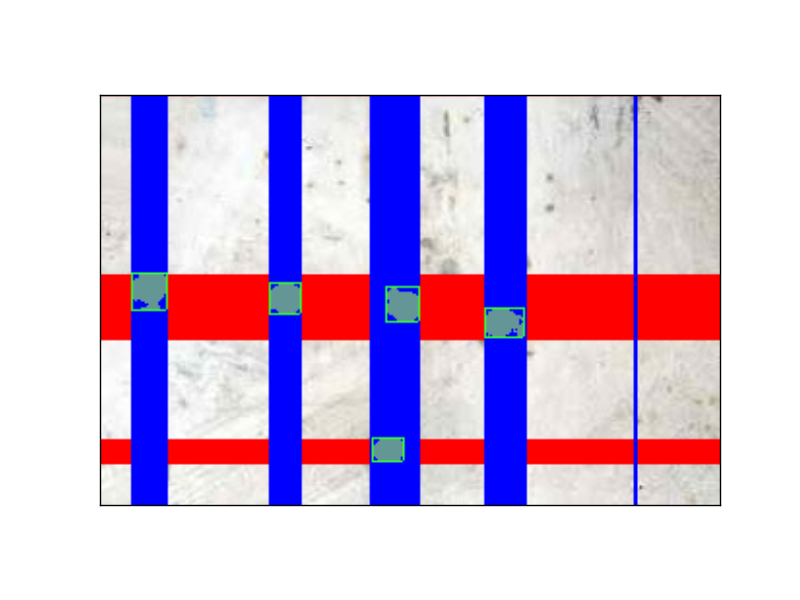
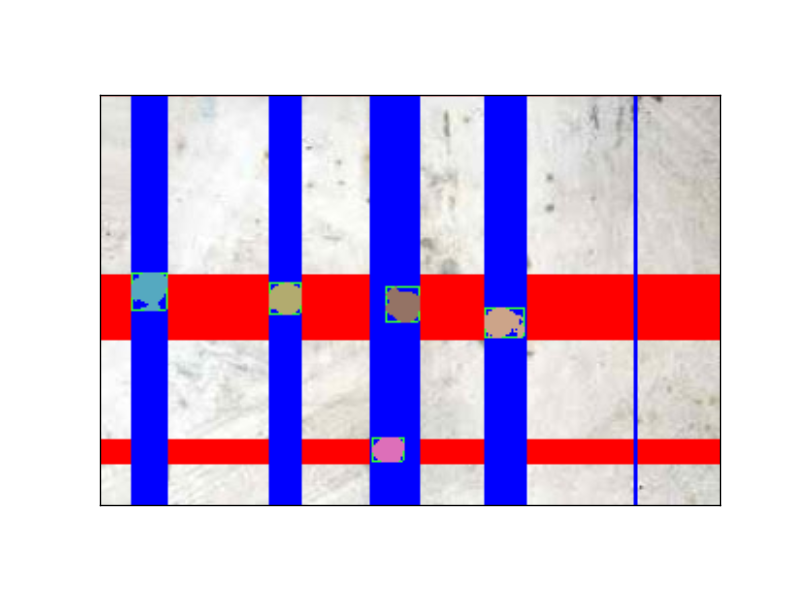
Holes

diff --git a/agujeros.py b/agujeros.py
@@ -62,6 +62,39 @@ def promedio(histo):
         if histo[val]<prom:
             dic2[val]=histo[val]
     return dic2
+def adaptive_threshold(image):
+    alto=len(image)
+    ancho=len(image[0])
+    int_image=[[0]*ancho for i in xrange(alto)]
+    salida=[[0]*ancho for i in xrange(alto)]
+    S = ancho/8
+    s2 = S/2
+    T = 22.0
+    #T = 15.0
+    #s=4
+    for y in xrange(alto):
+        suma=0
+        for x in xrange(ancho):
+            suma+=image[y][x]
+            if not i:
+                int_image[y][x]=suma
+            else:
+                int_image[y][x]=suma+int_image[y-1][x]
+
+    for y in xrange(alto):
+        for x in xrange(ancho):
+            y0=max(y-s2,0)
+            y1=min(y+s2,alto-1)
+            x0=max(x-s2,0)
+            x1=min(x+s2,ancho-1)
+            conta=(x1-x0)*(y1-y0)
+            #suma=int_image[y2][x2]-int_image[y1-1][x2]-int_image[y2][x1-1]+int_image[y1-1][x1-1]
+            suma = int_image[y1][x1]-int_image[y0][x1]-int_image[y1][x0]+int_image[y0][x0]
+            if image[y][x]*conta < suma*(100.-T)/100.:
+                salida[y][x]=0
+            else:
+                salida[y][x]=255
+    return salida
 
 def lineas(img,img2,alto,ancho):
     #img=to_grayscale(image)
@@ -115,17 +148,20 @@ def lineas(img,img2,alto,ancho):
                     img2[y][x]=(100,150,150)
     figura_actual=[]
     agujeros=[]
-    agujeros_lon=[]
+    #agujeros_lon=[]
+    agu_porciento=[]
     while holes!=[]:
         inicio=choice(holes)
         figura_actual=imagendfs(binar2,inicio,holes,3)
         for i in figura_actual:
             holes.remove(i)
         agujeros.append(figura_actual)
-        agujeros_lon.append(len(figura_actual))
+        #agujeros_lon.append(len(figura_actual))
+        porcientos=centro_masa(binar2,figura_actual)
+        agu_porciento.append(porcientos[2]) #by percentage
     #print "agujeros",agujeros
     longs={}
-    for i in agujeros_lon:
+    for i in agu_porciento:
         if i in longs:
             longs[i]+=1
         else:
@@ -133,11 +169,16 @@ def lineas(img,img2,alto,ancho):
     print "longs: ",longs
     t=otsu_t2(longs,len(longs))
     print "threshold_len: ",t
+    conta=0
     for fig in agujeros:
-        if len(fig)>=t:
+        print agu_porciento[conta]
+        if agu_porciento[conta]>=t:
+            color=(randint(60,230),randint(110,210),randint(70,255))
             print "fig: ", fig
             caja_envolvente(fig,img2)
-            
+            for i in fig:
+                img2[i[0]][i[1]]=color
+        conta+=1
     return img2
 
 
@@ -162,8 +203,4 @@ def main():
 if __name__ == '__main__':
     main()
 
-                        
-#img3=median(img)
-#plt.imshow(img3,cmap = cm.Greys_r) #Drawing modified image with detected edges
-#plt.show()
 
